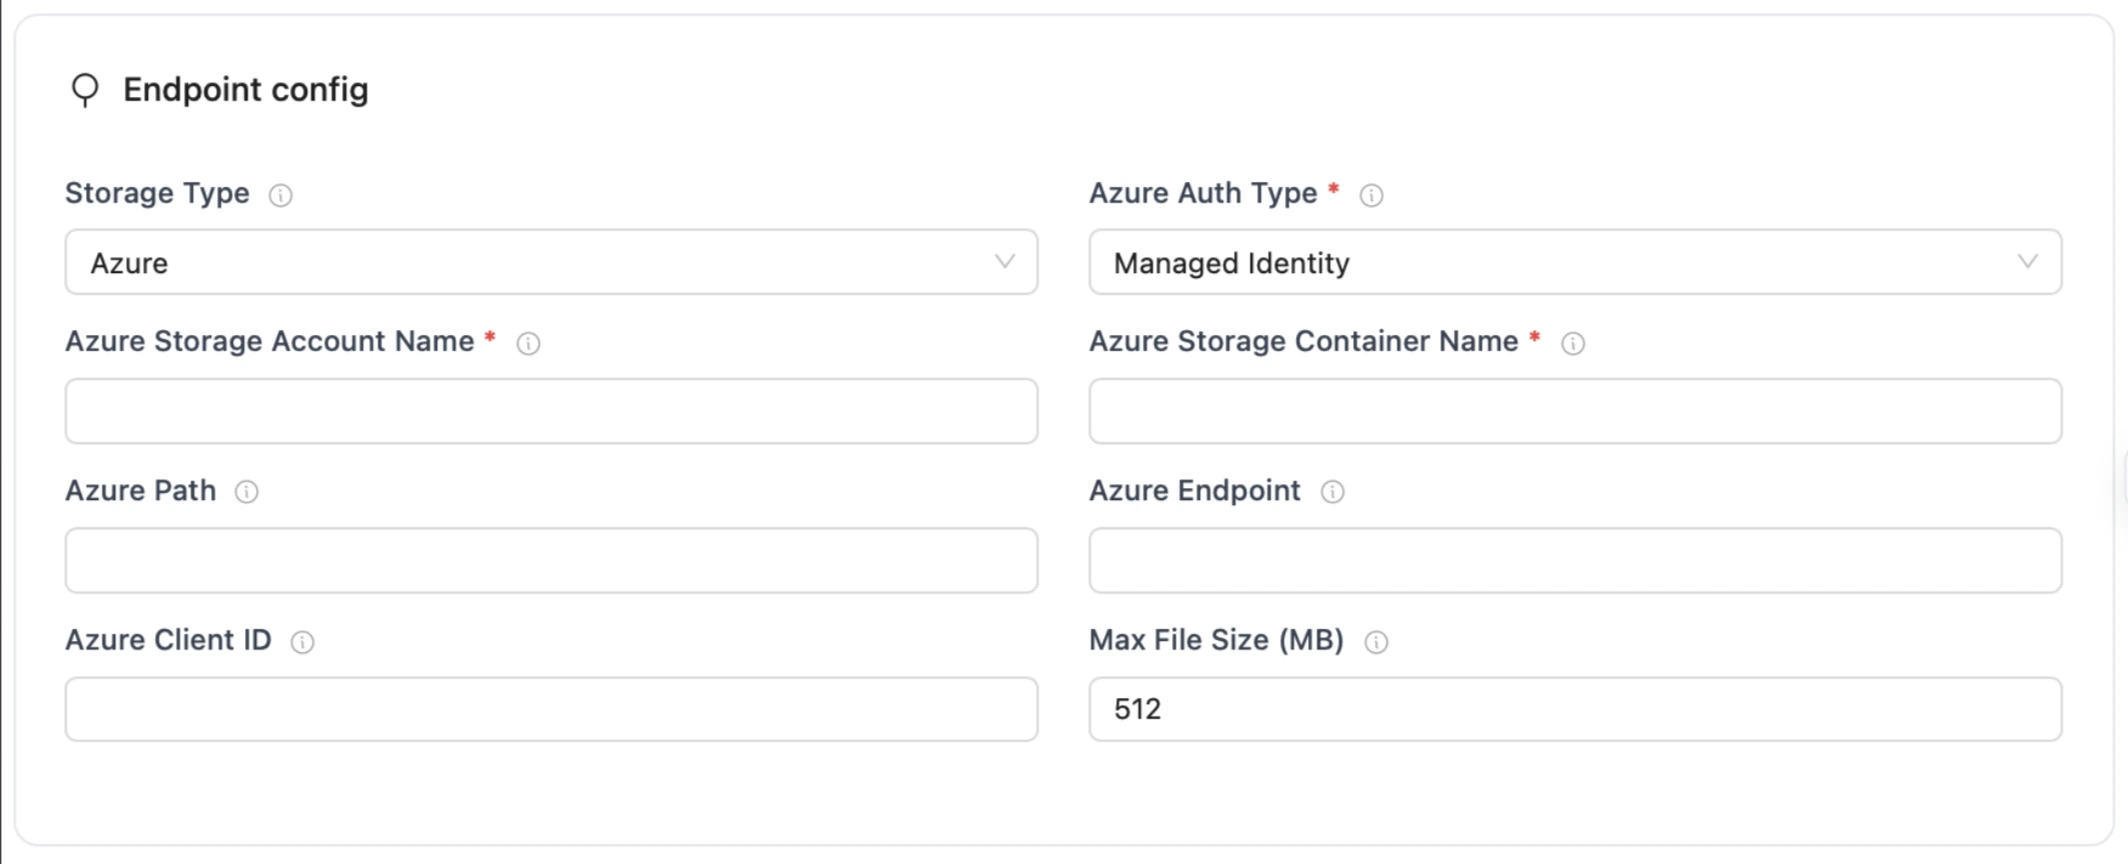
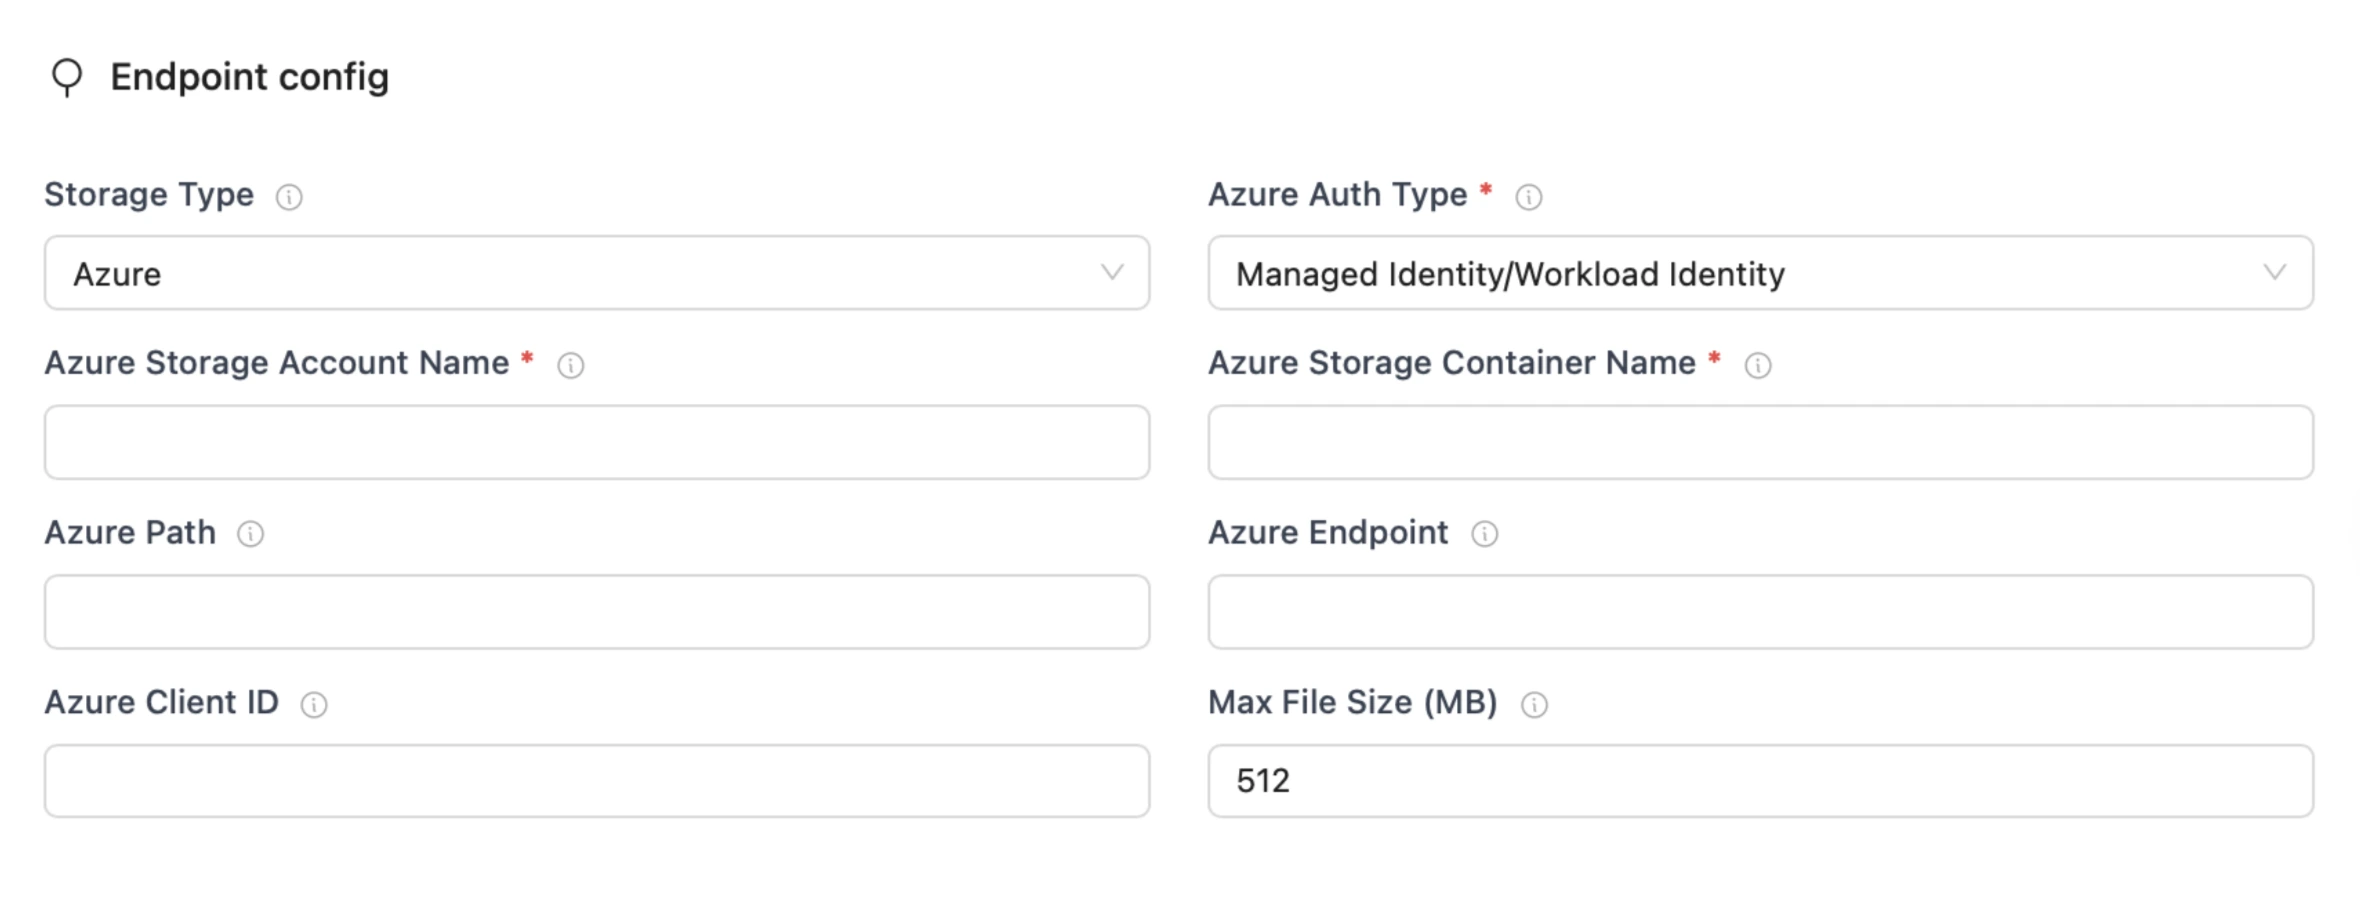
update based on final review

diff --git a/docs/shared/config/awsCredentialDescriptions.jsx b/docs/shared/config/awsCredentialDescriptions.jsx
@@ -16,7 +16,7 @@ export function AwsAccessKeyDescription() {
       for setup details.
       <br />
       <strong>Kubernetes:</strong> set up pod IAM in{' '}
-      <a href="/docs/install/kubernetes/#cloud-iam-integration">Cloud IAM Integration</a>.
+      <a href="/docs/install/kubernetes/#cloud-integration">Cloud Integration</a>.
     </>
   );
 }
@@ -37,7 +37,7 @@ export function AwsSecretKeyDescription() {
       for setup details.
       <br />
       <strong>Kubernetes:</strong> set up pod IAM in{' '}
-      <a href="/docs/install/kubernetes/#cloud-iam-integration">Cloud IAM Integration</a>.
+      <a href="/docs/install/kubernetes/#cloud-integration">Cloud Integration</a>.
     </>
   );
 }
